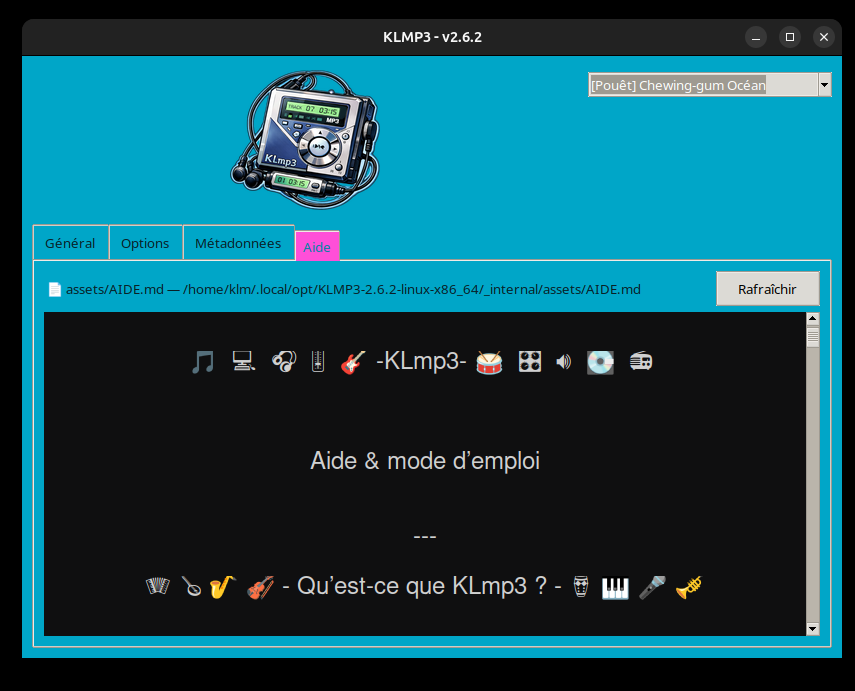
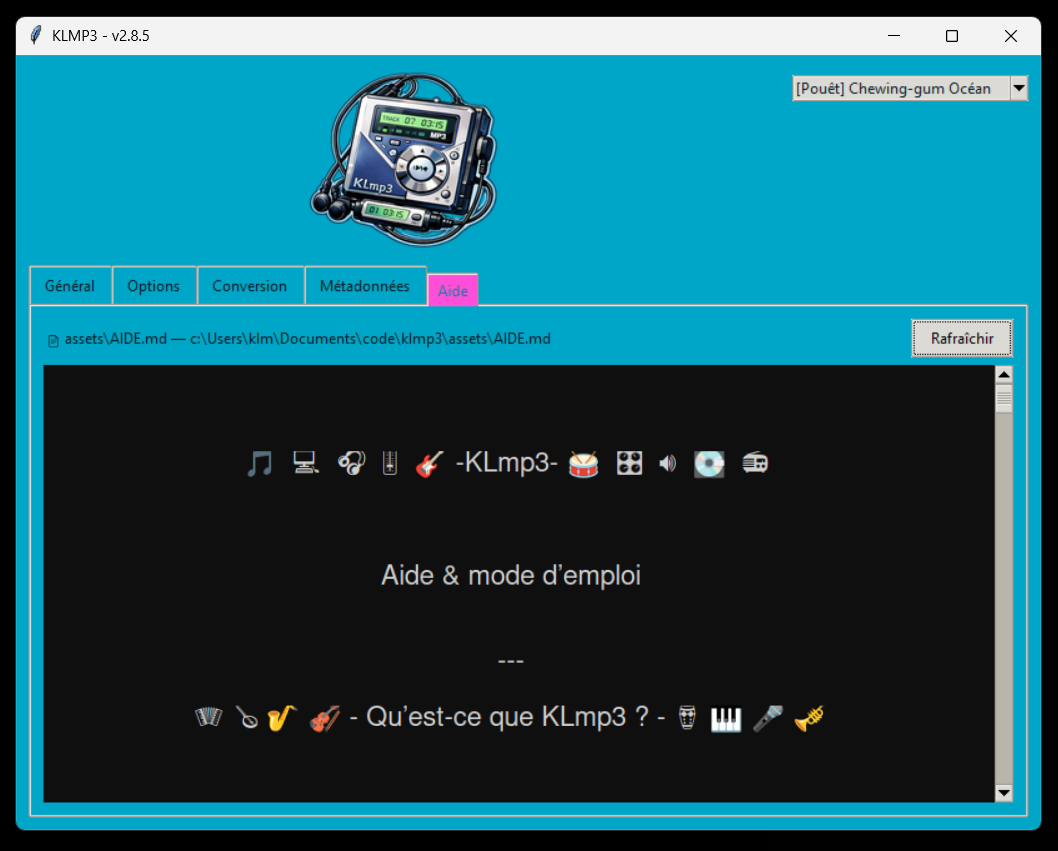
v2.8.5 Fix windows: Mise en place de sous-processus en mode “no console” + maj captures d'écran

diff --git a/klmp3.py b/klmp3.py
@@ -374,8 +374,8 @@ def find_deno_tools_first() -> ToolPath:
     return ToolPath(path=None, source="MISSING")
 def run_subprocess(cmd: list[str], on_line, stop_flag: threading.Event) -> int:
     """Run a subprocess, stream stdout+stderr line by line to on_line()."""
-    proc = subprocess.Popen(
-        cmd,
+
+    popen_kwargs = dict(
         stdout=subprocess.PIPE,
         stderr=subprocess.STDOUT,
         text=True,
@@ -383,6 +383,25 @@ def run_subprocess(cmd: list[str], on_line, stop_flag: threading.Event) -> int:
         errors="replace",
         bufsize=1,
     )
+
+    # Windows : empêcher l'apparition d'une console (PowerShell/Terminal) pour yt-dlp/ffmpeg.
+    if sys.platform.startswith("win"):
+        try:
+            popen_kwargs["creationflags"] = subprocess.CREATE_NO_WINDOW  # type: ignore[attr-defined]
+        except Exception:
+            # Fallback si la constante n'existe pas (rare)
+            popen_kwargs["creationflags"] = 0x08000000  # CREATE_NO_WINDOW
+
+        try:
+            si = subprocess.STARTUPINFO()
+            si.dwFlags |= subprocess.STARTF_USESHOWWINDOW
+            si.wShowWindow = 0  # SW_HIDE
+            popen_kwargs["startupinfo"] = si
+        except Exception:
+            pass
+
+    proc = subprocess.Popen(cmd, **popen_kwargs)
+
     try:
         assert proc.stdout is not None
         for line in proc.stdout:
@@ -400,6 +419,7 @@ def run_subprocess(cmd: list[str], on_line, stop_flag: threading.Event) -> int:
                 proc.stdout.close()
         except Exception:
             pass
+
 
 
 def default_outdir() -> str:
@@ -495,7 +515,7 @@ class App(tk.Tk):
         self.ff = find_ffmpeg_tools_first()
         self.ffmpeg_path = self.ff.ffmpeg
         self.ffprobe_path = self.ff.ffprobe
-        self.title("KLMP3 - v2.8.4")
+        self.title("KLMP3 - v2.8.5")
         self.geometry("820x620")
         self.minsize(780, 560)
 

diff --git a/Changelog.md b/Changelog.md
@@ -4,6 +4,16 @@ Toutes les modifications notables de ce projet sont documentées dans ce fichier
 Le format est inspiré de Keep a Changelog et le versionnement suit une logique sémantique pragmatique.
 
 
+
+---
+
+[2.8.3] – 2026-01-28
+
+ Ajouté
+
+ - Mise en place de sous-processus en mode “no console” afin d'éviter les fenêtres fantomes lors
+   de l'éxécution du programme sous windows.
+
 ---
 
 [2.8.3] – 2026-01-28
